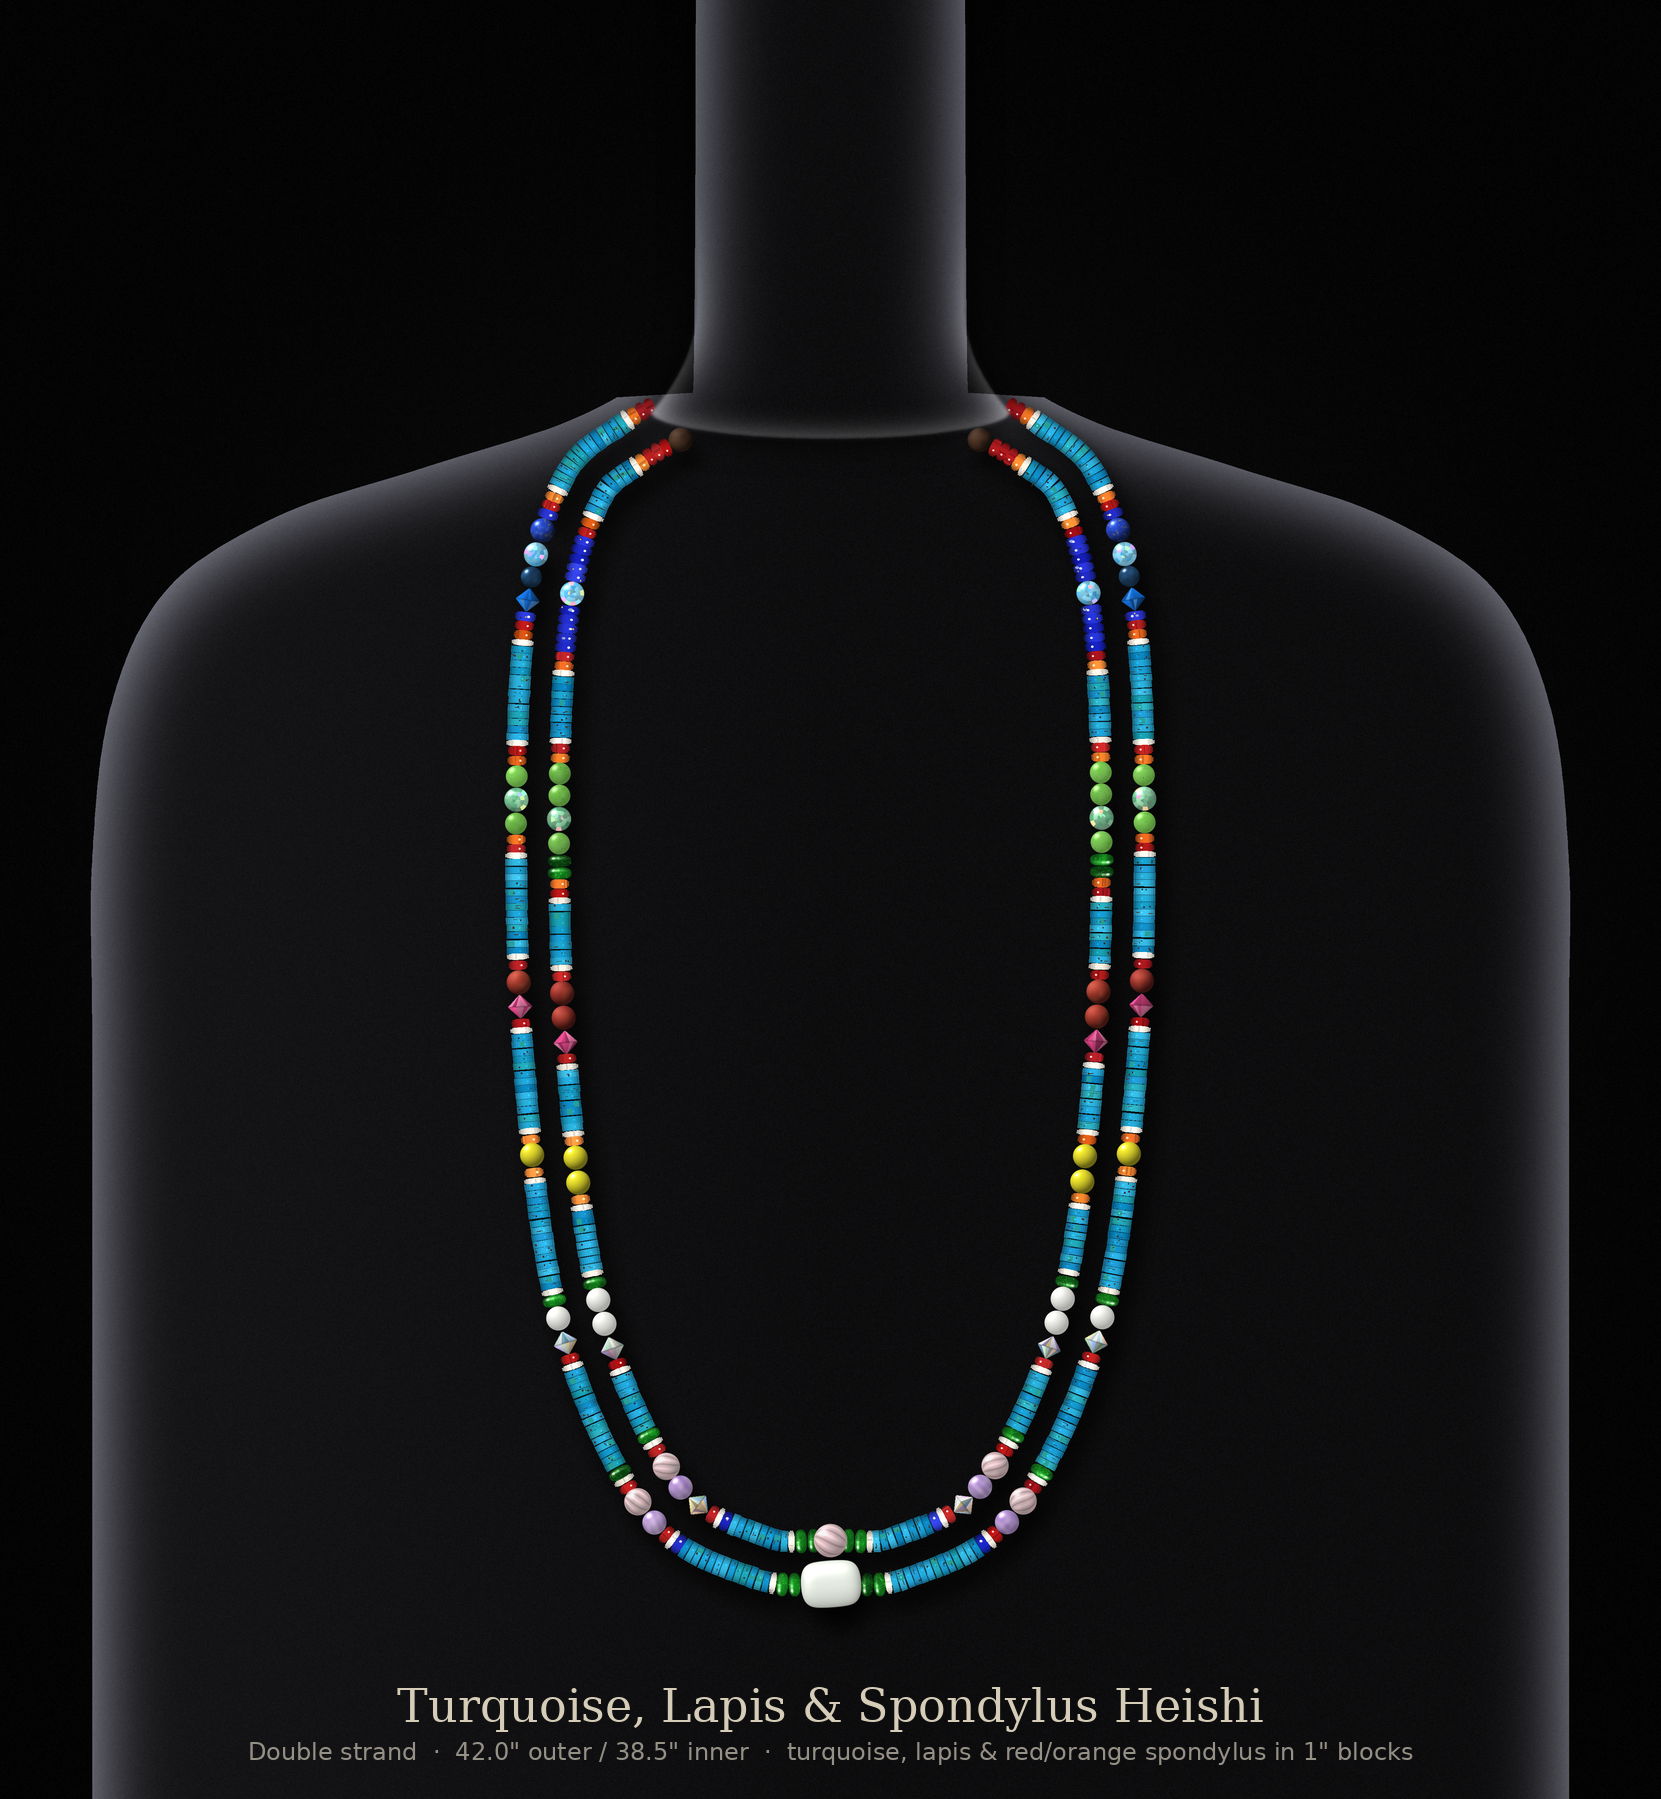
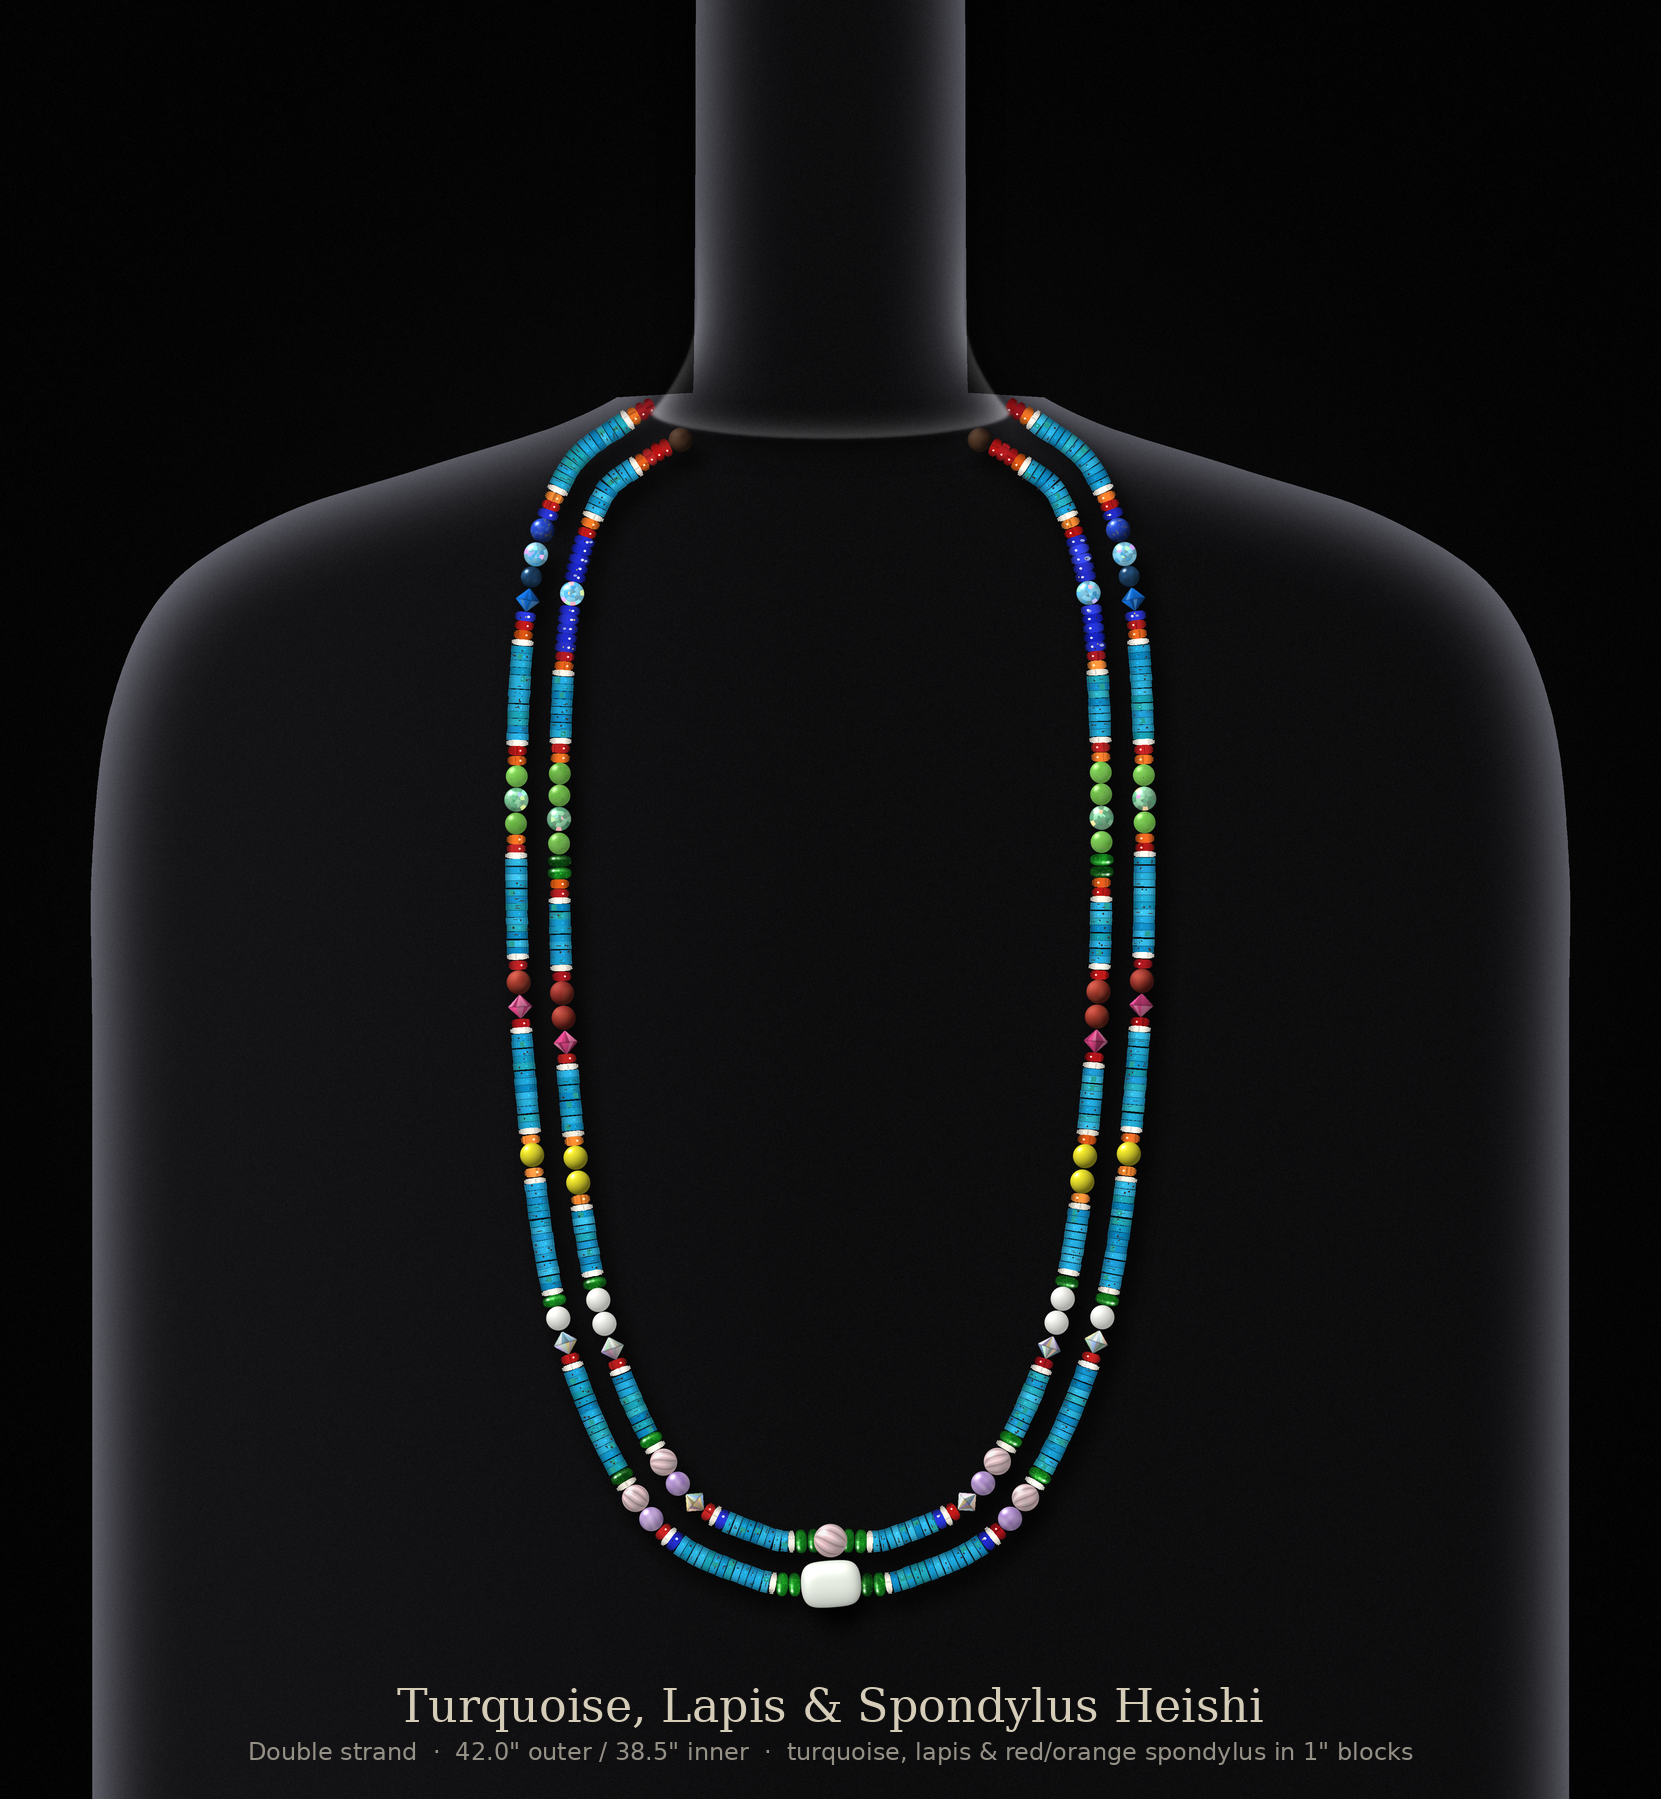
Version 5: remove the red touching the rose quartz, turquoise fills in
Claude-Session: https://claude.ai/code/session_014be1vF4Rdf8sv9Si75Gudv

diff --git a/necklace/render_necklace.py b/necklace/render_necklace.py
@@ -1507,6 +1507,9 @@ if V4:
                 _tot = sum(gaps[i] for i in _vis) + SZ["mookred"] + SZ["mookyel"]
                 for i in _vis:
                     gaps[i] = _tot / len(_vis)
+                _k = STN[8].index("rq9"); assert STN[8][_k - 1] == "red", STN[8]
+                del STN[8][_k - 1]                               # red touching the rose quartz removed; section stays centred
+                gaps[8] += SZ["red"] / 2; gaps[9] += SZ["red"] / 2
                 if st == 0:                                      # outer: one white round fewer; turquoise above and below fills in
                     STN[7].remove("opal8")
                     gaps[7] += SZ["opal8"] / 2; gaps[8] += SZ["opal8"] / 2
